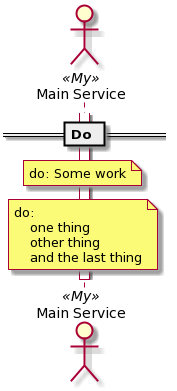
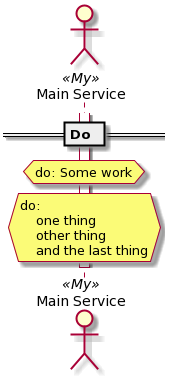
Make a Do as a hnote in puml

Changed region(s): [[0.0, 0.0, 0.9375, 0.9868], [0.3977, 0.9578, 0.4261, 0.9868]]

diff --git a/docs/tuc/parts.md b/docs/tuc/parts.md
@@ -447,12 +447,12 @@ actor "Main Service" as MainService <<My>>
 
 activate MainService
 group Grouped together
-    note over MainService
+    hnote over MainService
     do: something
-    end note
-    note over MainService
+    end hnote
+    hnote over MainService
     do: something else
-    end note
+    end hnote
 end
 
 deactivate MainService
@@ -528,21 +528,21 @@ actor "Main Service" as MainService <<My>>
 activate MainService
 alt the weather is nice
     alt it is over a 30°C
-        note over MainService
+        hnote over MainService
         do:
             nothing
             because its to hot
-        end note
+        end hnote
     else
-        note over MainService
+        hnote over MainService
         do: some work
-        end note
+        end hnote
     end
 else
     alt it is raining
-        note over MainService
+        hnote over MainService
         do: work
-        end note
+        end hnote
     end
 end
 
@@ -588,9 +588,9 @@ actor "Main Service" as MainService <<My>>
 
 activate MainService
 loop until it's done
-    note over MainService
+    hnote over MainService
     do: something
-    end note
+    end hnote
 end
 
 deactivate MainService
@@ -878,15 +878,15 @@ Results:
 actor "Main Service" as MainService <<My>>
 
 activate MainService
-note over MainService
+hnote over MainService
 do: Some work
-end note
-note over MainService
+end hnote
+hnote over MainService
 do:
     one thing
     other thing
     and the last thing
-end note
+end hnote
 
 deactivate MainService
 

diff --git a/docs/tuc/example.md b/docs/tuc/example.md
@@ -141,26 +141,26 @@ participant "Person Aggregate" as PersonAggregate <<consents>>
 
 activate GenericService
 GenericService -> InteractionCollector ++: PostInteraction(InteractionEvent)
-    note over InteractionCollector
+    hnote over InteractionCollector
     do: create an interaction event based on interaction
-    end note
+    end hnote
     InteractionCollector ->> InteractionCollectorStream: InteractionEvent
     InteractionCollectorStream ->> PersonIdentificationEngine: OnInteractionEvent(InteractionEvent)
         activate PersonIdentificationEngine
         PersonIdentificationEngine -> PersonAggregate ++: IdentifyPerson(IdentityMatchingSet)
-            note over PersonAggregate
+            hnote over PersonAggregate
             do:
                 normalize contact
                 identify a person based on the normalized contact
-            end note
+            end hnote
             alt PersonFound
-                note over PersonAggregate
+                hnote over PersonAggregate
                 do: return Person
-                end note
+                end hnote
             else
-                note over PersonAggregate
+                hnote over PersonAggregate
                 do: return Error
-                end note
+                end hnote
             end
         PersonAggregate --> PersonIdentificationEngine --: Person
         deactivate PersonIdentificationEngine

diff --git a/CHANGELOG.md b/CHANGELOG.md
@@ -11,6 +11,7 @@
 - Allow to use FQ name for events and use deeper event name
 - Allow to check multiple .tuc files in a dir at once
 - Parse .tuc with more errors, if possible
+- Make a `Do` as a `hnote` in `puml`
 
 ## 0.1.0 - 2020-08-12
 - Initial implementation
